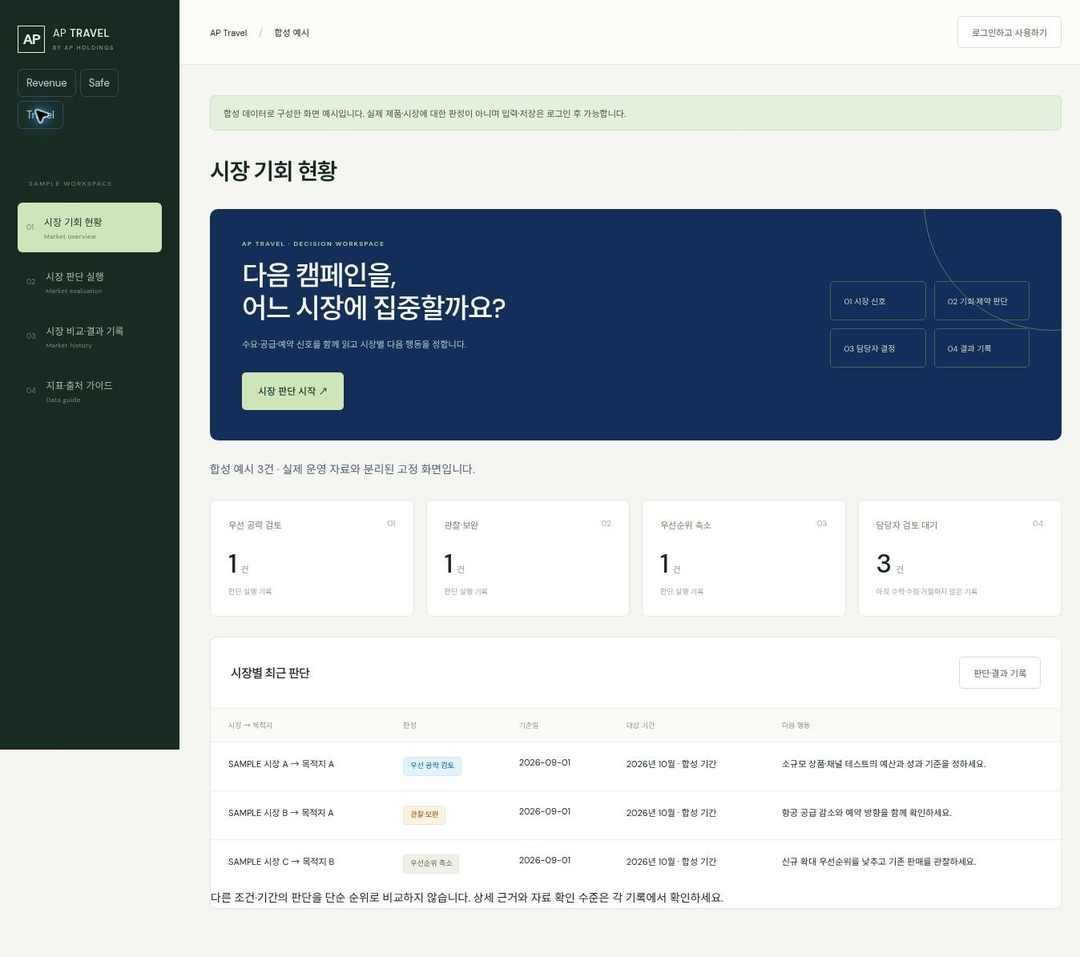
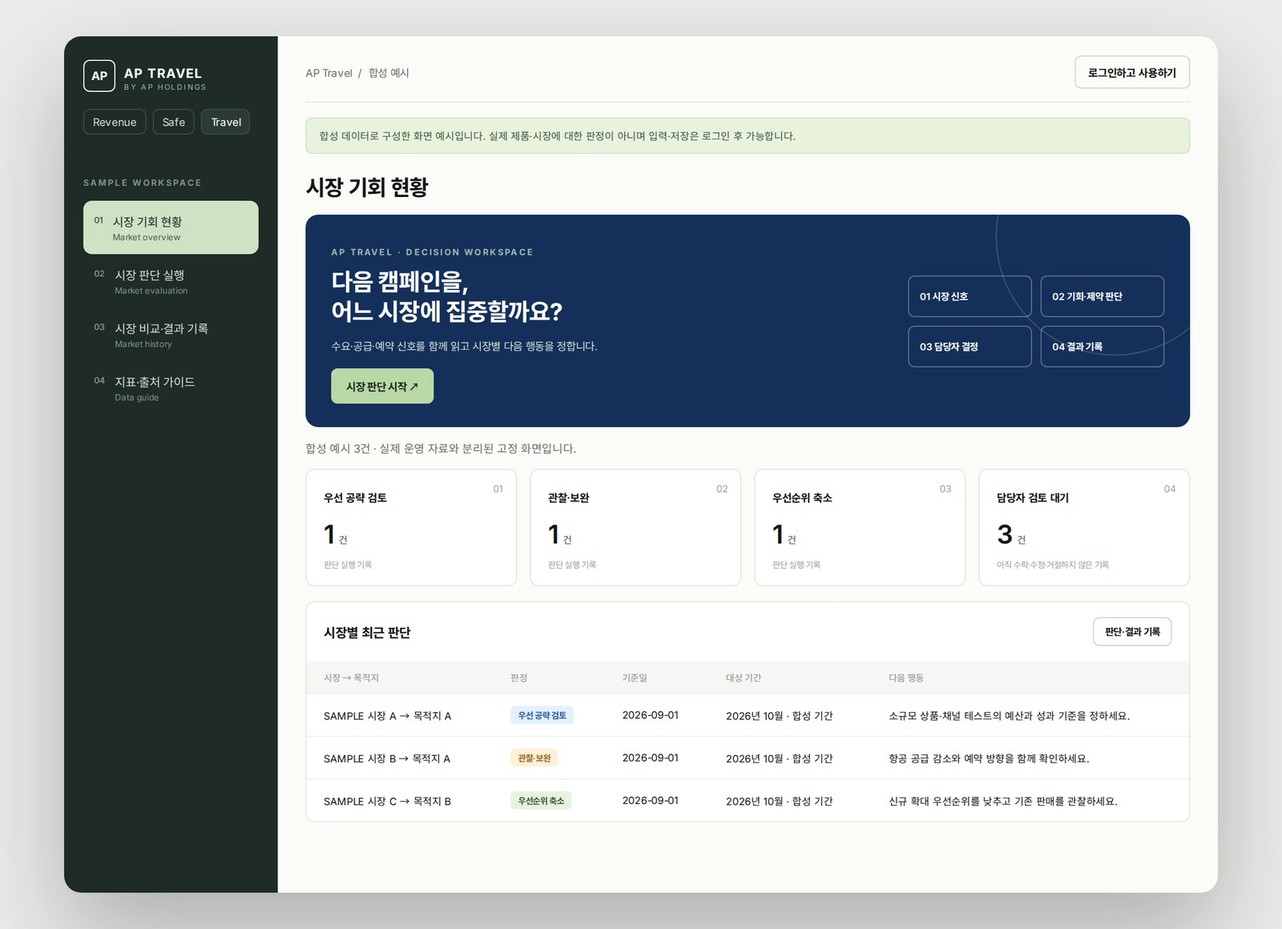
pilot sections: screenshots replaced with redrawn workspace graphics (desktop+mobile, KO/EN)
Claude-Session: https://claude.ai/code/session_01WsGPQczCo9oamQacoYURTj

diff --git a/en/products/safe/index.html b/en/products/safe/index.html
@@ -3,5 +3,5 @@ From ingredient scanner to AI-assisted safe commerce."><meta name="robots" conte
 From ingredient scanner to AI-assisted safe commerce."><meta property="og:url" content="https://www.apholdings.kr/en/products/safe/"><meta property="og:locale" content="en_US"><meta name="theme-color" content="#ffffff"><link rel="icon" href="/img/ap_mark.png"><link rel="stylesheet" href="/assets/v2/site.css?v=2.12"><script defer src="/assets/v2/site.js?v=2.4"></script><script type="application/ld+json">{"@context": "https://schema.org", "@type": "Organization", "name": "AP Holdings", "url": "https://www.apholdings.kr", "logo": "https://www.apholdings.kr/img/ap_mark.png", "description": "The avoid list saved on my phone filters what the AI shows, and only unflagged items get picked.\nFrom ingredient scanner to AI-assisted safe commerce.", "email": "cksals00@gmail.com", "sameAs": ["https://www.instagram.com/lia_park55/", "https://www.tiktok.com/@lia_park55"]}</script></head><body id="top"><a class="skip" href="#main">Skip to content</a><header class="site-header"><div class="wrap header-inner"><a class="brand" href="/en/" aria-label="AP Holdings home"><span class="brand-mark"><img src="/img/ap_mark.png" alt="" width="29" height="14"></span>AP HOLDINGS</a><nav class="desktop-nav" aria-label="Main"><a href="/en/#businesses">Services</a><a href="/en/#portfolio">Products</a><a href="/en/about/">About</a><a href="/en/ir/" class="ir-link">Investors</a><a href="/en/#contact">Contact</a></nav><details class="language"><summary aria-label="Language">EN</summary><ul><li><a href="/ko/products/safe/" lang="ko">한국어</a></li><li><a href="/en/products/safe/" lang="en" aria-current="page">English</a></li><li><a href="/vi/" lang="vi">Tiếng Việt<small>In preparation</small></a></li><li><a href="/ja/" lang="ja">日本語<small>In preparation</small></a></li><li><a href="/zh-cn/" lang="zh-cn">简体中文<small>In preparation</small></a></li><li><a href="/fr/" lang="fr">Français<small>In preparation</small></a></li></ul></details><details class="mobile-menu"><summary>Menu</summary><nav aria-label="Mobile"><a href="/en/#businesses">Services</a><a href="/en/#portfolio">Products</a><a href="/en/about/">About</a><a href="/en/ir/" class="ir-link">Investors</a><a href="/en/#contact">Contact</a></nav></details></div></header><main id="main"><section class="page-hero"><div class="wrap"><div class="breadcrumb"><a class="" href="/en/#portfolio">Products</a> / AP Safe</div><span class="status">In development</span><h1 class="product-name">AP Safe</h1><h2>Know what to avoid.</h2><p class="lead">The avoid list saved on my phone filters what the AI shows, and only unflagged items get picked.
 From ingredient scanner to AI-assisted safe commerce.</p></div></section><section class="section"><div class="wrap"><figure style="margin:0 0 45px"><div class="product-media" style="background:transparent;padding:0"><video autoplay muted loop playsinline preload="metadata" poster="/media/safelist_frame.jpg" src="/media/safelist.mp4" aria-label="AP Safe" style="width:100%;border-radius:24px"></video></div></figure><div class="product-body" hidden><div class="actions"><a class="button" href="https://apps.apple.com/kr/app/id6805684034" target="_blank" rel="noopener noreferrer">Safelist app</a></div><p>The existing Safelist app is evidence of building. Its currently available features are distinct from the broader AP Safe product concept.</p><div class="actions"><a class="button" href="/business/safelist-connect.html">Existing connector access</a></div></div></div></section><section class="section anchor" id="scene"><div class="wrap"><div class="section-intro"><div><span class="number">01 · One scene</span><h2>Siri, a week of snacks
 safe for my child.</h2></div><div class="intro-side"><p>Before anything is bought, any AI asks Safelist first. Only unflagged items reach the cart.</p></div></div><figure class="pic" style="margin:0 0 45px"><div class="product-media" style="background:transparent;padding:0"><picture><source media="(max-width:800px)" srcset="/media/gfx/safe_scene_m_en.jpg"><img src="/media/gfx/safe_scene_en.jpg" alt="One sentence → AI → Safelist verdict → only unflagged items reach the cart" width="1600" height="900" loading="lazy" style="width:100%;max-height:none;border-radius:24px"></picture></div></figure></div></section><section class="section soft anchor" id="why"><div class="wrap"><div class="section-intro"><div><span class="number">02 · Why Safelist</span><h2>AI is probability. Ingredients are fact.</h2></div><div class="intro-side"><p>AI can sound confident about what it doesn&#x27;t know. For a child&#x27;s food, that is the real danger. Safelist checks the source records and hands the AI facts only.</p><p class="note">Not a diagnosis · Public database · Final call stays with the parent</p></div></div><figure class="pic" style="margin:0 0 45px"><div class="product-media" style="background:transparent;padding:0"><picture><source media="(max-width:800px)" srcset="/media/gfx/safe_why_m_en.jpg"><img src="/media/gfx/safe_why_en.jpg" alt="AI alone guesses; with Safelist it answers from MFDS source records" width="1600" height="900" loading="lazy" style="width:100%;max-height:none;border-radius:24px"></picture></div></figure></div></section><section class="section anchor" id="data"><div class="wrap"><div class="section-intro"><div><span class="number">03 · Where the data lives</span><h2>My body&#x27;s data stays on my phone.</h2></div><div class="intro-side"><p>Child profiles, photos and logs never leave the device. The server receives only the label and the avoid list, then discards them.</p></div></div><figure class="pic" style="margin:0 0 45px"><div class="product-media" style="background:transparent;padding:0"><picture><source media="(max-width:800px)" srcset="/media/gfx/safe_privacy_m_en.jpg"><img src="/media/gfx/safe_privacy_en.jpg" alt="My data stays on my phone — the server sees only the label and the avoid list, then discards them" width="1600" height="900" loading="lazy" style="width:100%;max-height:none;border-radius:24px"></picture></div></figure></div></section><section class="section soft anchor" id="pilot"><div class="wrap"><div class="section-intro"><div><span class="number">04 · Web pilot</span><h2>Before you recommend,
-check the conflicts first.</h2></div><div class="intro-side"><p>Compares product composition against a user&#x27;s avoid and caution conditions, and applies the same rules to alternative candidates. A workspace tool for organizations — separate from the app and connector.</p><div class="actions"><a class="button primary" href="https://revenue.apholdings.kr/safe/">Open AP Safe</a><a class="button" href="https://revenue.apholdings.kr/safe/?demo=1">See the synthetic example</a><a class="button" href="https://revenue.apholdings.kr/safe/?demo=1">View example full size</a></div><p class="note">A review tool that compares entered conditions with composition data. Not a medical diagnosis or an absolute safety guarantee.</p></div></div><div class="tags"><span>Working pilot</span><span>Org accounts · Excel input</span><span>Reviewer records</span></div><figure class="pic" style="margin:0 0 45px"><div class="product-media" style="background:transparent;padding:0"><picture><source media="(max-width:800px)" srcset="/media/gfx/ap_safe_pilot.jpg"><img src="/media/gfx/ap_safe_pilot.jpg" alt="AP Safe synthetic example: a review overview showing exclude, needs review and no explicit conflict per product, with the reviewer&#x27;s next action" width="1600" height="900" loading="lazy" style="width:100%;max-height:none;border-radius:24px"></picture></div><figcaption class="note">Screen example built on synthetic data · not a judgment on real products or markets.</figcaption></figure><p>Separates conflict conditions that exclude a recommendation from information that needs a further check. Reviewers see the reasoning and record accept, edit or reject, plus observed outcomes.</p><ul class="flow"><li>Explicit match between avoid/caution conditions and composition</li><li>Held for review when information is missing</li><li>Same conditions applied to alternatives</li><li>Excel input · reasoning · reviewer records</li></ul></div></section><section class="section soft anchor" id="today"><div class="wrap"><div class="cta-block"><span class="number">05 · Today</span><h2>Today, on the App Store and in Claude.</h2><p>Free on the App Store. Scan without an account.
+check the conflicts first.</h2></div><div class="intro-side"><p>Compares product composition against a user&#x27;s avoid and caution conditions, and applies the same rules to alternative candidates. A workspace tool for organizations — separate from the app and connector.</p><div class="actions"><a class="button primary" href="https://revenue.apholdings.kr/safe/">Open AP Safe</a><a class="button" href="https://revenue.apholdings.kr/safe/?demo=1">See the synthetic example</a><a class="button" href="https://revenue.apholdings.kr/safe/?demo=1">View example full size</a></div><p class="note">A review tool that compares entered conditions with composition data. Not a medical diagnosis or an absolute safety guarantee.</p></div></div><div class="tags"><span>Working pilot</span><span>Org accounts · Excel input</span><span>Reviewer records</span></div><figure class="pic" style="margin:0 0 45px"><div class="product-media" style="background:transparent;padding:0"><picture><source media="(max-width:800px)" srcset="/media/gfx/ap_safe_pilot_m_en.jpg"><img src="/media/gfx/ap_safe_pilot_en.jpg" alt="AP Safe synthetic example (redrawn): a review overview showing exclude, needs review and no explicit conflict per product, with the reviewer&#x27;s next action" width="1600" height="900" loading="lazy" style="width:100%;max-height:none;border-radius:24px"></picture></div><figcaption class="note">Screen example on synthetic data (redrawn) · not a judgment on real products or markets.</figcaption></figure><p>Separates conflict conditions that exclude a recommendation from information that needs a further check. Reviewers see the reasoning and record accept, edit or reject, plus observed outcomes.</p><ul class="flow"><li>Explicit match between avoid/caution conditions and composition</li><li>Held for review when information is missing</li><li>Same conditions applied to alternatives</li><li>Excel input · reasoning · reviewer records</li></ul></div></section><section class="section soft anchor" id="today"><div class="wrap"><div class="cta-block"><span class="number">05 · Today</span><h2>Today, on the App Store and in Claude.</h2><p>Free on the App Store. Scan without an account.
 One line of address connects it to Claude.</p><div class="actions"><a class="button primary" href="https://apps.apple.com/kr/app/id6805684034">App Store</a><a class="button" href="/business/safelist-connect.html">Connect to Claude</a></div><p class="note">Android · ChatGPT · Gemini — coming later</p></div></div></section><section class="section anchor" id="exits"><div class="wrap"><div class="section-intro"><div><span class="number">06 · Where to buy</span><h2>Three exits.</h2></div><div class="intro-side"><p>One verdict engine. Three places to buy. Inside the AI · an online safe market · a physical store.</p><div class="actions"><a class="button" href="/ko/products/select/">AP SELECT — the store that chooses</a><a class="button" href="/ko/products/light/">Calories: AP Light</a></div></div></div><figure class="pic" style="margin:0 0 45px"><div class="product-media" style="background:transparent;padding:0"><picture><source media="(max-width:800px)" srcset="/media/gfx/safe_exits_m_en.jpg"><img src="/media/gfx/safe_exits_en.jpg" alt="Three exits — inside the AI · online safe market · physical store" width="1600" height="900" loading="lazy" style="width:100%;max-height:none;border-radius:24px"></picture></div></figure></div></section></main><footer class="site-footer"><div class="wrap"><div class="footer-contact" id="contact"><div><span class="eyebrow">CONTACT</span><h3>Build with AP.</h3><p>Let’s discuss product and technology, expert advisory, brand and commerce, global distribution, education and content, craft and artist collaboration, and pilots.</p></div><div><a class="contact-email" href="mailto:cksals00@gmail.com">cksals00@gmail.com</a><a class="button primary" href="mailto:cksals00@gmail.com?subject=%5BAP%20Holdings%5D%20Partnership%20enquiry">Contact AP Holdings</a></div></div><div class="footer-top"><a class="brand" href="/en/" aria-label="AP Holdings home"><span class="brand-mark"><img src="/img/ap_mark.png" alt="" width="29" height="14"></span>AP HOLDINGS</a><div class="footer-map"><div><b>AP Holdings</b><a class="" href="/en/about/">About</a><a class="" href="/en/ir/">IR / INVESTORS</a><a class="" href="/en/lab/">Founder’s Lab</a></div><div><b>Decision Intelligence</b><a class="" href="/en/products/safe/">AP Safe</a><a class="" href="/en/products/light/">AP Light</a><a class="" href="/en/products/revenue/">AP Revenue</a><a class="" href="/en/products/travel/">AP Travel</a></div><div><b>Commerce</b><a class="" href="/en/products/select/">AP SELECT</a><a class="" href="/en/products/commerce/">Global K-Commerce</a><a class="" href="/en/products/liaselect/">Lia Select</a><a class="" href="/en/products/craft/">AP K-Craft</a><a class="" href="/en/products/lia/">LIA</a></div><div><b>Play &amp; Learn</b><a class="" href="/en/products/rgrg/">RGRG</a><a class="" href="/en/products/cubs/">Hangeul Cubs</a><a class="" href="/en/products/lastwave/">LAST WAVE</a></div><div><b>Connectors</b><a class="" href="/business/safelist-connect.html">Safelist · Claude</a><a class="" href="/business/lightlist-connect.html">Lightlist · Claude</a></div></div></div><ul class="footer-policies" aria-label="Privacy policies"><li class="pol-label">App privacy policies</li><li><a class="" href="/safelist/privacy.html">Safelist</a></li><li><a class="" href="/hangeulcubs_privacy.html">Hangeul Cubs</a></li><li><a class="" href="/rgrg/privacy.html">RGRG</a></li><li><a class="" href="/irongrade/privacy.html">IRON GRADE</a></li><li><a class="" href="/theotherhours_privacy.html">The Other Hours</a></li><li><a class="" href="/kfan_privacy.html">K-Concert Trip</a></li><li><a class="" href="/privacy.html">나의 첫투자</a></li><li><a class="" href="/kscan/privacy.html">K-Scan</a></li><li><a class="" href="/goyo/privacy.html">Goyo</a></li></ul><div class="footer-bottom"><span>© 2026 AP Holdings.<em class="rights"> All rights reserved.</em></span><span>Built in Korea. Designed for the world.</span><a class="" href="#top">Back to top</a></div></div></footer></body></html>

diff --git a/en/products/travel/index.html b/en/products/travel/index.html
@@ -7,4 +7,4 @@ Only when they agree.</h2></div><div class="intro-side"><p>Air seats · exchange
 Who comes, and when, differs.</h2></div><div class="intro-side"><p>2.09 million visitors in July 2026, +20.8% year on year. China · Japan · Taiwan · United States · Hong Kong, in that order. Each country has its own peak season, spend and reason to come.</p><p class="note">Figures are refreshed after each monthly statistics release. Estimates are illustrative, not results.</p></div></div><figure class="pic" style="margin:0 0 45px"><div class="product-media" style="background:transparent;padding:0"><picture><source media="(max-width:800px)" srcset="/media/gfx/travel_market_m_en.jpg"><img src="/media/gfx/travel_market_en.jpg" alt="Annual arrivals 2019–2030 target · July 2026 arrivals by nationality" width="1600" height="900" loading="lazy" style="width:100%;max-height:none;border-radius:24px"></picture></div></figure></div></section><section class="section soft anchor" id="who"><div class="wrap"><div class="section-intro"><div><span class="number">04 · Who uses it</span><h2>Anyone waiting
 for guests.</h2></div><div class="intro-side"><p>Hotel and resort marketing, local governments and tourism boards, travel agencies and OTAs, concert and MICE organizers. It answers “which country do we advertise in now” every week.</p></div></div><figure class="pic" style="margin:0 0 45px"><div class="product-media" style="background:transparent;padding:0"><picture><source media="(max-width:800px)" srcset="/media/gfx/travel_report_m_en.jpg"><img src="/media/gfx/travel_report_en.jpg" alt="The weekly opportunity report hotels, tourism boards and agencies receive" width="1600" height="900" loading="lazy" style="width:100%;max-height:none;border-radius:24px"></picture></div></figure></div></section><section class="section anchor" id="apply"><div class="wrap"><div class="section-intro"><div><span class="number">05 · How it connects</span><h2>The same engine as AP Revenue.
 Only the data differs.</h2></div><div class="intro-side"><p>Signals → priority → human decision → outcome on record. Public data (Korea Tourism Data Lab · TourAPI) and partner data feed a weekly “this week&#x27;s opportunities” list and campaign briefs.</p></div></div><ul class="flow"><li>Public · partner data</li><li>Six signals normalized</li><li>Opportunity list (origin → city · guest · week)</li><li>Manager decides</li><li>Campaign</li><li>Verified by visits and bookings</li></ul><div class="tags"><span>Weekly opportunity report</span><span>Campaign brief</span><span>AP Revenue booking data link</span><span>K-Concert Trip — app for overseas K-pop fans visiting Korea, first measurement channel</span></div></div></section><section class="section soft anchor" id="pilot"><div class="wrap"><div class="section-intro"><div><span class="number">06 · Web pilot</span><h2>Which market should
-the next campaign focus on?</h2></div><div class="intro-side"><p>Reviews market signals together — travel demand, air supply, bookings — and sorts which markets to pursue and where the evidence still needs work.</p><div class="actions"><a class="button primary" href="https://revenue.apholdings.kr/travel/">Open AP Travel</a><a class="button" href="https://revenue.apholdings.kr/travel/?demo=1">See the synthetic example</a><a class="button" href="https://revenue.apholdings.kr/travel/?demo=1">View example full size</a></div><p class="note">A rule-based market review tool. Scores are not revenue forecasts or performance guarantees.</p></div></div><div class="tags"><span>Working pilot</span><span>Org accounts · Excel input</span><span>Per-market decision history</span></div><figure class="pic" style="margin:0 0 45px"><div class="product-media" style="background:transparent;padding:0"><picture><source media="(max-width:800px)" srcset="/media/gfx/ap_travel_pilot.jpg"><img src="/media/gfx/ap_travel_pilot.jpg" alt="AP Travel synthetic example: a market overview showing pursue, watch and de-prioritize per market, with next actions" width="1600" height="900" loading="lazy" style="width:100%;max-height:none;border-radius:24px"></picture></div><figcaption class="note">Screen example built on synthetic data · not a judgment on real products or markets.</figcaption></figure><p>Enter data by origin market, destination and travel period and it sorts them into pursue, watch and de-prioritize. Reviewers see the reasoning and next action, and the team&#x27;s decisions and observed outcomes accumulate.</p><ul class="flow"><li>Eight market signals with source and as-of date</li><li>Conflicts between supply constraints, demand and booking direction</li><li>Excel input and per-market decision records</li><li>Before/after comparison when data is refreshed for the same market and period</li></ul></div></section><section class="section anchor" id="today"><div class="wrap"><div class="cta-block"><span class="number">07 · Today</span><h2>Today, in a web pilot.</h2><p>Sign in with an organization account, enter market data and record decisions. The same engine runs on hotel booking data in AP Revenue.</p><div class="actions"><a class="button primary" href="https://revenue.apholdings.kr/travel/">Open AP Travel</a><a class="button" href="mailto:cksals00@gmail.com?subject=%5BAP%20Holdings%5D%20AP%20Travel%20pilot%20inquiry">Pilot inquiry</a><a class="button" href="/en/products/revenue/">See AP Revenue</a></div><p class="note">Automatic market-data collection · standard metric definitions · validation against real outcomes — next steps</p></div></div></section></main><footer class="site-footer"><div class="wrap"><div class="footer-contact" id="contact"><div><span class="eyebrow">CONTACT</span><h3>Build with AP.</h3><p>Let’s discuss product and technology, expert advisory, brand and commerce, global distribution, education and content, craft and artist collaboration, and pilots.</p></div><div><a class="contact-email" href="mailto:cksals00@gmail.com">cksals00@gmail.com</a><a class="button primary" href="mailto:cksals00@gmail.com?subject=%5BAP%20Holdings%5D%20Partnership%20enquiry">Contact AP Holdings</a></div></div><div class="footer-top"><a class="brand" href="/en/" aria-label="AP Holdings home"><span class="brand-mark"><img src="/img/ap_mark.png" alt="" width="29" height="14"></span>AP HOLDINGS</a><div class="footer-map"><div><b>AP Holdings</b><a class="" href="/en/about/">About</a><a class="" href="/en/ir/">IR / INVESTORS</a><a class="" href="/en/lab/">Founder’s Lab</a></div><div><b>Decision Intelligence</b><a class="" href="/en/products/safe/">AP Safe</a><a class="" href="/en/products/light/">AP Light</a><a class="" href="/en/products/revenue/">AP Revenue</a><a class="" href="/en/products/travel/">AP Travel</a></div><div><b>Commerce</b><a class="" href="/en/products/select/">AP SELECT</a><a class="" href="/en/products/commerce/">Global K-Commerce</a><a class="" href="/en/products/liaselect/">Lia Select</a><a class="" href="/en/products/craft/">AP K-Craft</a><a class="" href="/en/products/lia/">LIA</a></div><div><b>Play &amp; Learn</b><a class="" href="/en/products/rgrg/">RGRG</a><a class="" href="/en/products/cubs/">Hangeul Cubs</a><a class="" href="/en/products/lastwave/">LAST WAVE</a></div><div><b>Connectors</b><a class="" href="/business/safelist-connect.html">Safelist · Claude</a><a class="" href="/business/lightlist-connect.html">Lightlist · Claude</a></div></div></div><ul class="footer-policies" aria-label="Privacy policies"><li class="pol-label">App privacy policies</li><li><a class="" href="/safelist/privacy.html">Safelist</a></li><li><a class="" href="/hangeulcubs_privacy.html">Hangeul Cubs</a></li><li><a class="" href="/rgrg/privacy.html">RGRG</a></li><li><a class="" href="/irongrade/privacy.html">IRON GRADE</a></li><li><a class="" href="/theotherhours_privacy.html">The Other Hours</a></li><li><a class="" href="/kfan_privacy.html">K-Concert Trip</a></li><li><a class="" href="/privacy.html">나의 첫투자</a></li><li><a class="" href="/kscan/privacy.html">K-Scan</a></li><li><a class="" href="/goyo/privacy.html">Goyo</a></li></ul><div class="footer-bottom"><span>© 2026 AP Holdings.<em class="rights"> All rights reserved.</em></span><span>Built in Korea. Designed for the world.</span><a class="" href="#top">Back to top</a></div></div></footer></body></html>
+the next campaign focus on?</h2></div><div class="intro-side"><p>Reviews market signals together — travel demand, air supply, bookings — and sorts which markets to pursue and where the evidence still needs work.</p><div class="actions"><a class="button primary" href="https://revenue.apholdings.kr/travel/">Open AP Travel</a><a class="button" href="https://revenue.apholdings.kr/travel/?demo=1">See the synthetic example</a><a class="button" href="https://revenue.apholdings.kr/travel/?demo=1">View example full size</a></div><p class="note">A rule-based market review tool. Scores are not revenue forecasts or performance guarantees.</p></div></div><div class="tags"><span>Working pilot</span><span>Org accounts · Excel input</span><span>Per-market decision history</span></div><figure class="pic" style="margin:0 0 45px"><div class="product-media" style="background:transparent;padding:0"><picture><source media="(max-width:800px)" srcset="/media/gfx/ap_travel_pilot_m_en.jpg"><img src="/media/gfx/ap_travel_pilot_en.jpg" alt="AP Travel synthetic example (redrawn): a market overview showing pursue, watch and de-prioritize per market, with next actions" width="1600" height="900" loading="lazy" style="width:100%;max-height:none;border-radius:24px"></picture></div><figcaption class="note">Screen example on synthetic data (redrawn) · not a judgment on real products or markets.</figcaption></figure><p>Enter data by origin market, destination and travel period and it sorts them into pursue, watch and de-prioritize. Reviewers see the reasoning and next action, and the team&#x27;s decisions and observed outcomes accumulate.</p><ul class="flow"><li>Eight market signals with source and as-of date</li><li>Conflicts between supply constraints, demand and booking direction</li><li>Excel input and per-market decision records</li><li>Before/after comparison when data is refreshed for the same market and period</li></ul></div></section><section class="section anchor" id="today"><div class="wrap"><div class="cta-block"><span class="number">07 · Today</span><h2>Today, in a web pilot.</h2><p>Sign in with an organization account, enter market data and record decisions. The same engine runs on hotel booking data in AP Revenue.</p><div class="actions"><a class="button primary" href="https://revenue.apholdings.kr/travel/">Open AP Travel</a><a class="button" href="mailto:cksals00@gmail.com?subject=%5BAP%20Holdings%5D%20AP%20Travel%20pilot%20inquiry">Pilot inquiry</a><a class="button" href="/en/products/revenue/">See AP Revenue</a></div><p class="note">Automatic market-data collection · standard metric definitions · validation against real outcomes — next steps</p></div></div></section></main><footer class="site-footer"><div class="wrap"><div class="footer-contact" id="contact"><div><span class="eyebrow">CONTACT</span><h3>Build with AP.</h3><p>Let’s discuss product and technology, expert advisory, brand and commerce, global distribution, education and content, craft and artist collaboration, and pilots.</p></div><div><a class="contact-email" href="mailto:cksals00@gmail.com">cksals00@gmail.com</a><a class="button primary" href="mailto:cksals00@gmail.com?subject=%5BAP%20Holdings%5D%20Partnership%20enquiry">Contact AP Holdings</a></div></div><div class="footer-top"><a class="brand" href="/en/" aria-label="AP Holdings home"><span class="brand-mark"><img src="/img/ap_mark.png" alt="" width="29" height="14"></span>AP HOLDINGS</a><div class="footer-map"><div><b>AP Holdings</b><a class="" href="/en/about/">About</a><a class="" href="/en/ir/">IR / INVESTORS</a><a class="" href="/en/lab/">Founder’s Lab</a></div><div><b>Decision Intelligence</b><a class="" href="/en/products/safe/">AP Safe</a><a class="" href="/en/products/light/">AP Light</a><a class="" href="/en/products/revenue/">AP Revenue</a><a class="" href="/en/products/travel/">AP Travel</a></div><div><b>Commerce</b><a class="" href="/en/products/select/">AP SELECT</a><a class="" href="/en/products/commerce/">Global K-Commerce</a><a class="" href="/en/products/liaselect/">Lia Select</a><a class="" href="/en/products/craft/">AP K-Craft</a><a class="" href="/en/products/lia/">LIA</a></div><div><b>Play &amp; Learn</b><a class="" href="/en/products/rgrg/">RGRG</a><a class="" href="/en/products/cubs/">Hangeul Cubs</a><a class="" href="/en/products/lastwave/">LAST WAVE</a></div><div><b>Connectors</b><a class="" href="/business/safelist-connect.html">Safelist · Claude</a><a class="" href="/business/lightlist-connect.html">Lightlist · Claude</a></div></div></div><ul class="footer-policies" aria-label="Privacy policies"><li class="pol-label">App privacy policies</li><li><a class="" href="/safelist/privacy.html">Safelist</a></li><li><a class="" href="/hangeulcubs_privacy.html">Hangeul Cubs</a></li><li><a class="" href="/rgrg/privacy.html">RGRG</a></li><li><a class="" href="/irongrade/privacy.html">IRON GRADE</a></li><li><a class="" href="/theotherhours_privacy.html">The Other Hours</a></li><li><a class="" href="/kfan_privacy.html">K-Concert Trip</a></li><li><a class="" href="/privacy.html">나의 첫투자</a></li><li><a class="" href="/kscan/privacy.html">K-Scan</a></li><li><a class="" href="/goyo/privacy.html">Goyo</a></li></ul><div class="footer-bottom"><span>© 2026 AP Holdings.<em class="rights"> All rights reserved.</em></span><span>Built in Korea. Designed for the world.</span><a class="" href="#top">Back to top</a></div></div></footer></body></html>

diff --git a/ko/products/safe/index.html b/ko/products/safe/index.html
@@ -13,6 +13,6 @@ AI에게 사실만 건넨다.</p><p class="note">진단이 아니다 · 공개 D
 응답 후 버린다.</p></div></div><figure class="pic" style="margin:0 0 45px"><div class="product-media" style="background:transparent;padding:0"><picture><source media="(max-width:800px)" srcset="/media/gfx/safe_privacy_m.jpg"><img src="/media/gfx/safe_privacy.jpg" alt="내 몸 데이터는 내 폰에 — 서버는 성분표와 피할 성분만 받고 버린다" width="1600" height="900" loading="lazy" style="width:100%;max-height:none;border-radius:24px"></picture></div></figure></div></section><section class="section soft anchor" id="pilot"><div class="wrap"><div class="section-intro"><div><span class="number">04 · 웹 파일럿</span><h2>추천 전에,
 충돌 조건부터 확인하세요.</h2></div><div class="intro-side"><p>제품 구성과 사용자 회피·주의 조건을 비교하고,
 대체 후보에도 같은 기준을 적용합니다.
-조직용 웹 도구 — 앱·커넥터와는 제공 범위가 다릅니다.</p><div class="actions"><a class="button primary" href="https://revenue.apholdings.kr/safe/">AP Safe 시작하기</a><a class="button" href="https://revenue.apholdings.kr/safe/?demo=1">합성 예시 보기</a><a class="button" href="https://revenue.apholdings.kr/safe/?demo=1">예시 화면 크게 보기</a></div><p class="note">입력된 조건과 구성정보를 비교하는 검토 도구입니다. 의료진단·절대적 안전보증이 아닙니다.</p></div></div><div class="tags"><span>작동 파일럿</span><span>조직 계정 · 엑셀 입력</span><span>담당자 검토 기록</span></div><figure class="pic" style="margin:0 0 45px"><div class="product-media" style="background:transparent;padding:0"><picture><source media="(max-width:800px)" srcset="/media/gfx/ap_safe_pilot.jpg"><img src="/media/gfx/ap_safe_pilot.jpg" alt="AP Safe 합성 예시: 제품별 추천 제외·추가 검토·명시적 충돌 없음과 담당자의 다음 행동을 보여주는 검토 현황 화면" width="1600" height="900" loading="lazy" style="width:100%;max-height:none;border-radius:24px"></picture></div><figcaption class="note">합성 데이터 기반 화면 예시 · 실제 제품·시장 판정이 아닙니다.</figcaption></figure><p>추천에서 제외할 충돌 조건과 추가 확인이 필요한 정보를 구분합니다. 담당자는 판단 근거를 확인하고 수락·수정·거절 및 관측 결과를 기록할 수 있습니다.</p><ul class="flow"><li>회피·주의 조건과 제품 구성의 명시적 일치 확인</li><li>정보 부족 시 추가 검토로 보류</li><li>대체 후보에 동일 조건 적용</li><li>엑셀 입력 · 판단 근거 · 담당자 검토 기록</li></ul></div></section><section class="section soft anchor" id="today"><div class="wrap"><div class="cta-block"><span class="number">05 · 지금</span><h2>오늘, App Store와 클로드에서.</h2><p>App Store에서 무료로. 계정 없이 바로 스캔.
+조직용 웹 도구 — 앱·커넥터와는 제공 범위가 다릅니다.</p><div class="actions"><a class="button primary" href="https://revenue.apholdings.kr/safe/">AP Safe 시작하기</a><a class="button" href="https://revenue.apholdings.kr/safe/?demo=1">합성 예시 보기</a><a class="button" href="https://revenue.apholdings.kr/safe/?demo=1">예시 화면 크게 보기</a></div><p class="note">입력된 조건과 구성정보를 비교하는 검토 도구입니다. 의료진단·절대적 안전보증이 아닙니다.</p></div></div><div class="tags"><span>작동 파일럿</span><span>조직 계정 · 엑셀 입력</span><span>담당자 검토 기록</span></div><figure class="pic" style="margin:0 0 45px"><div class="product-media" style="background:transparent;padding:0"><picture><source media="(max-width:800px)" srcset="/media/gfx/ap_safe_pilot_m.jpg"><img src="/media/gfx/ap_safe_pilot.jpg" alt="AP Safe 합성 예시 (화면 재구성): 제품별 추천 제외·추가 검토·명시적 충돌 없음과 담당자의 다음 행동을 보여주는 검토 현황 화면" width="1600" height="900" loading="lazy" style="width:100%;max-height:none;border-radius:24px"></picture></div><figcaption class="note">합성 데이터 기반 화면 예시(재구성) · 실제 제품·시장 판정이 아닙니다.</figcaption></figure><p>추천에서 제외할 충돌 조건과 추가 확인이 필요한 정보를 구분합니다. 담당자는 판단 근거를 확인하고 수락·수정·거절 및 관측 결과를 기록할 수 있습니다.</p><ul class="flow"><li>회피·주의 조건과 제품 구성의 명시적 일치 확인</li><li>정보 부족 시 추가 검토로 보류</li><li>대체 후보에 동일 조건 적용</li><li>엑셀 입력 · 판단 근거 · 담당자 검토 기록</li></ul></div></section><section class="section soft anchor" id="today"><div class="wrap"><div class="cta-block"><span class="number">05 · 지금</span><h2>오늘, App Store와 클로드에서.</h2><p>App Store에서 무료로. 계정 없이 바로 스캔.
 클로드에는 주소 한 줄이면 붙는다.</p><div class="actions"><a class="button primary" href="https://apps.apple.com/kr/app/id6805684034">App Store</a><a class="button" href="/business/safelist-connect.html">클로드에 붙이기</a></div><p class="note">Android · ChatGPT · Gemini — 추후 출시 예정</p></div></div></section><section class="section anchor" id="exits"><div class="wrap"><div class="section-intro"><div><span class="number">06 · 어디서 사나</span><h2>세 개의 출구.</h2></div><div class="intro-side"><p>판정 엔진은 하나. 사는 자리는 셋.
 AI 안에서 · 온라인 안심 마켓 · 오프라인 매장.</p><div class="actions"><a class="button" href="/ko/products/select/">AP SELECT — 고르는 매장</a><a class="button" href="/ko/products/light/">열량은 AP Light</a></div></div></div><figure class="pic" style="margin:0 0 45px"><div class="product-media" style="background:transparent;padding:0"><picture><source media="(max-width:800px)" srcset="/media/gfx/safe_exits_m.jpg"><img src="/media/gfx/safe_exits.jpg" alt="세 개의 출구 — AI 안에서 · 온라인 안심 마켓 · 오프라인 매장" width="1600" height="900" loading="lazy" style="width:100%;max-height:none;border-radius:24px"></picture></div></figure></div></section></main><footer class="site-footer"><div class="wrap"><div class="footer-contact" id="contact"><div><span class="eyebrow">CONTACT</span><h3>Build with AP.</h3><p>제품·기술 · 전문가 자문 · 브랜드·커머스 · 글로벌 유통 · 교육·콘텐츠 · 공예·작가 · 파일럿 협력</p></div><div><a class="contact-email" href="mailto:cksals00@gmail.com">cksals00@gmail.com</a><a class="button primary" href="mailto:cksals00@gmail.com?subject=%5BAP%20Holdings%5D%20Partnership%20enquiry">협력 문의</a></div></div><div class="footer-top"><a class="brand" href="/ko/" aria-label="AP Holdings home"><span class="brand-mark"><img src="/img/ap_mark.png" alt="" width="29" height="14"></span>AP HOLDINGS</a><div class="footer-map"><div><b>AP Holdings</b><a class="" href="/ko/about/">회사 소개</a><a class="" href="/ko/ir/">IR / INVESTORS</a><a class="" href="/ko/lab/">Founder’s Lab</a></div><div><b>Decision Intelligence</b><a class="" href="/ko/products/safe/">AP Safe</a><a class="" href="/ko/products/light/">AP Light</a><a class="" href="/ko/products/revenue/">AP Revenue</a><a class="" href="/ko/products/travel/">AP Travel</a></div><div><b>Commerce</b><a class="" href="/ko/products/select/">AP SELECT</a><a class="" href="/ko/products/commerce/">Global K-Commerce</a><a class="" href="/ko/products/liaselect/">Lia Select</a><a class="" href="/ko/products/craft/">K-Craft</a><a class="" href="/ko/products/lia/">LIA</a></div><div><b>Play &amp; Learn</b><a class="" href="/ko/products/rgrg/">RGRG</a><a class="" href="/ko/products/cubs/">Hangeul Cubs</a><a class="" href="/ko/products/lastwave/">LAST WAVE</a></div><div><b>커넥터</b><a class="" href="/business/safelist-connect.html">세이프리스트 · 클로드</a><a class="" href="/business/lightlist-connect.html">라이트리스트 · 클로드</a></div></div></div><ul class="footer-policies" aria-label="개인정보 처리방침"><li class="pol-label">앱 개인정보 처리방침</li><li><a class="" href="/safelist/privacy.html">Safelist</a></li><li><a class="" href="/hangeulcubs_privacy.html">Hangeul Cubs</a></li><li><a class="" href="/rgrg/privacy.html">RGRG</a></li><li><a class="" href="/irongrade/privacy.html">IRON GRADE</a></li><li><a class="" href="/theotherhours_privacy.html">The Other Hours</a></li><li><a class="" href="/kfan_privacy.html">K-Concert Trip</a></li><li><a class="" href="/privacy.html">나의 첫투자</a></li><li><a class="" href="/kscan/privacy.html">K-Scan</a></li><li><a class="" href="/goyo/privacy.html">Goyo</a></li></ul><div class="footer-bottom"><span>© 2026 AP Holdings.<em class="rights"> All rights reserved.</em></span><span>Built in Korea. Designed for the world.</span><a class="" href="#top">맨 위로</a></div></div></footer></body></html>

diff --git a/ko/products/travel/index.html b/ko/products/travel/index.html
@@ -22,5 +22,5 @@
 매주 「이번 주 기회」 목록과
 캠페인 브리프를 낸다.</p></div></div><ul class="flow"><li>공공 · 파트너 데이터</li><li>신호 6종 정규화</li><li>기회 목록 (출발국 → 도시 · 손님 · 주)</li><li>담당자 결정</li><li>캠페인</li><li>방문 · 예약 실적으로 검증</li></ul><div class="tags"><span>주간 기회 리포트</span><span>캠페인 브리프</span><span>AP Revenue 예약 데이터 연동</span><span>K-Concert Trip — 해외 K팝 팬 방한 앱, 첫 실측 채널</span></div></div></section><section class="section soft anchor" id="pilot"><div class="wrap"><div class="section-intro"><div><span class="number">06 · 웹 파일럿</span><h2>다음 캠페인을,
 어느 시장에 집중할까요?</h2></div><div class="intro-side"><p>여행 수요·항공 공급·예약 등 시장 신호를 함께 검토해
-공략할 시장과 보완할 근거를 정리합니다.</p><div class="actions"><a class="button primary" href="https://revenue.apholdings.kr/travel/">AP Travel 시작하기</a><a class="button" href="https://revenue.apholdings.kr/travel/?demo=1">합성 예시 보기</a><a class="button" href="https://revenue.apholdings.kr/travel/?demo=1">예시 화면 크게 보기</a></div><p class="note">규칙 기반의 시장 검토 도구입니다. 점수는 매출 예측이나 성과 보장이 아닙니다.</p></div></div><div class="tags"><span>작동 파일럿</span><span>조직 계정 · 엑셀 입력</span><span>시장별 판단 이력</span></div><figure class="pic" style="margin:0 0 45px"><div class="product-media" style="background:transparent;padding:0"><picture><source media="(max-width:800px)" srcset="/media/gfx/ap_travel_pilot.jpg"><img src="/media/gfx/ap_travel_pilot.jpg" alt="AP Travel 합성 예시: 시장별 우선 공략 검토·관찰·우선순위 축소와 다음 행동을 보여주는 시장 기회 화면" width="1600" height="900" loading="lazy" style="width:100%;max-height:none;border-radius:24px"></picture></div><figcaption class="note">합성 데이터 기반 화면 예시 · 실제 제품·시장 판정이 아닙니다.</figcaption></figure><p>출발 시장·목적지·여행 기간별 자료를 입력하면 우선 공략 검토, 관찰·보완, 우선순위 축소로 분류합니다. 판단 근거와 다음 행동을 확인하고 담당자의 결정과 관측 결과를 축적합니다.</p><ul class="flow"><li>시장 신호 8개와 출처·기준일 확인</li><li>공급 제약·수요와 예약 방향의 상충 검토</li><li>엑셀 입력과 시장별 판단 기록</li><li>같은 시장·여행 기간의 자료 갱신 전후 비교</li></ul></div></section><section class="section anchor" id="today"><div class="wrap"><div class="cta-block"><span class="number">07 · 지금</span><h2>오늘, 웹 파일럿에서.</h2><p>조직 계정으로 로그인해 시장 자료를 넣고 판단을 기록한다.
+공략할 시장과 보완할 근거를 정리합니다.</p><div class="actions"><a class="button primary" href="https://revenue.apholdings.kr/travel/">AP Travel 시작하기</a><a class="button" href="https://revenue.apholdings.kr/travel/?demo=1">합성 예시 보기</a><a class="button" href="https://revenue.apholdings.kr/travel/?demo=1">예시 화면 크게 보기</a></div><p class="note">규칙 기반의 시장 검토 도구입니다. 점수는 매출 예측이나 성과 보장이 아닙니다.</p></div></div><div class="tags"><span>작동 파일럿</span><span>조직 계정 · 엑셀 입력</span><span>시장별 판단 이력</span></div><figure class="pic" style="margin:0 0 45px"><div class="product-media" style="background:transparent;padding:0"><picture><source media="(max-width:800px)" srcset="/media/gfx/ap_travel_pilot_m.jpg"><img src="/media/gfx/ap_travel_pilot.jpg" alt="AP Travel 합성 예시 (화면 재구성): 시장별 우선 공략 검토·관찰·우선순위 축소와 다음 행동을 보여주는 시장 기회 화면" width="1600" height="900" loading="lazy" style="width:100%;max-height:none;border-radius:24px"></picture></div><figcaption class="note">합성 데이터 기반 화면 예시(재구성) · 실제 제품·시장 판정이 아닙니다.</figcaption></figure><p>출발 시장·목적지·여행 기간별 자료를 입력하면 우선 공략 검토, 관찰·보완, 우선순위 축소로 분류합니다. 판단 근거와 다음 행동을 확인하고 담당자의 결정과 관측 결과를 축적합니다.</p><ul class="flow"><li>시장 신호 8개와 출처·기준일 확인</li><li>공급 제약·수요와 예약 방향의 상충 검토</li><li>엑셀 입력과 시장별 판단 기록</li><li>같은 시장·여행 기간의 자료 갱신 전후 비교</li></ul></div></section><section class="section anchor" id="today"><div class="wrap"><div class="cta-block"><span class="number">07 · 지금</span><h2>오늘, 웹 파일럿에서.</h2><p>조직 계정으로 로그인해 시장 자료를 넣고 판단을 기록한다.
 같은 엔진이 호텔 예약 데이터로는 AP Revenue에서 작동 중.</p><div class="actions"><a class="button primary" href="https://revenue.apholdings.kr/travel/">AP Travel 시작하기</a><a class="button" href="mailto:cksals00@gmail.com?subject=%5BAP%20Holdings%5D%20AP%20Travel%20%ED%8C%8C%EC%9D%BC%EB%9F%BF%20%EB%AC%B8%EC%9D%98">파일럿 문의</a><a class="button" href="/ko/products/revenue/">AP Revenue 보기</a></div><p class="note">외부 시장 데이터 자동 수집 · 지표 정의 표준화 · 실제 성과 검증 — 후속 작업</p></div></div></section></main><footer class="site-footer"><div class="wrap"><div class="footer-contact" id="contact"><div><span class="eyebrow">CONTACT</span><h3>Build with AP.</h3><p>제품·기술 · 전문가 자문 · 브랜드·커머스 · 글로벌 유통 · 교육·콘텐츠 · 공예·작가 · 파일럿 협력</p></div><div><a class="contact-email" href="mailto:cksals00@gmail.com">cksals00@gmail.com</a><a class="button primary" href="mailto:cksals00@gmail.com?subject=%5BAP%20Holdings%5D%20Partnership%20enquiry">협력 문의</a></div></div><div class="footer-top"><a class="brand" href="/ko/" aria-label="AP Holdings home"><span class="brand-mark"><img src="/img/ap_mark.png" alt="" width="29" height="14"></span>AP HOLDINGS</a><div class="footer-map"><div><b>AP Holdings</b><a class="" href="/ko/about/">회사 소개</a><a class="" href="/ko/ir/">IR / INVESTORS</a><a class="" href="/ko/lab/">Founder’s Lab</a></div><div><b>Decision Intelligence</b><a class="" href="/ko/products/safe/">AP Safe</a><a class="" href="/ko/products/light/">AP Light</a><a class="" href="/ko/products/revenue/">AP Revenue</a><a class="" href="/ko/products/travel/">AP Travel</a></div><div><b>Commerce</b><a class="" href="/ko/products/select/">AP SELECT</a><a class="" href="/ko/products/commerce/">Global K-Commerce</a><a class="" href="/ko/products/liaselect/">Lia Select</a><a class="" href="/ko/products/craft/">K-Craft</a><a class="" href="/ko/products/lia/">LIA</a></div><div><b>Play &amp; Learn</b><a class="" href="/ko/products/rgrg/">RGRG</a><a class="" href="/ko/products/cubs/">Hangeul Cubs</a><a class="" href="/ko/products/lastwave/">LAST WAVE</a></div><div><b>커넥터</b><a class="" href="/business/safelist-connect.html">세이프리스트 · 클로드</a><a class="" href="/business/lightlist-connect.html">라이트리스트 · 클로드</a></div></div></div><ul class="footer-policies" aria-label="개인정보 처리방침"><li class="pol-label">앱 개인정보 처리방침</li><li><a class="" href="/safelist/privacy.html">Safelist</a></li><li><a class="" href="/hangeulcubs_privacy.html">Hangeul Cubs</a></li><li><a class="" href="/rgrg/privacy.html">RGRG</a></li><li><a class="" href="/irongrade/privacy.html">IRON GRADE</a></li><li><a class="" href="/theotherhours_privacy.html">The Other Hours</a></li><li><a class="" href="/kfan_privacy.html">K-Concert Trip</a></li><li><a class="" href="/privacy.html">나의 첫투자</a></li><li><a class="" href="/kscan/privacy.html">K-Scan</a></li><li><a class="" href="/goyo/privacy.html">Goyo</a></li></ul><div class="footer-bottom"><span>© 2026 AP Holdings.<em class="rights"> All rights reserved.</em></span><span>Built in Korea. Designed for the world.</span><a class="" href="#top">맨 위로</a></div></div></footer></body></html>

diff --git a/scripts/build_site.py b/scripts/build_site.py
@@ -139,7 +139,7 @@ def mobile_src(src):
  import os
  if not src.endswith('.jpg'):return None
  base=src[:-4]
- if base.split('/')[-1] in ('lw_collab','yt_ep1','ap_safe_pilot','ap_travel_pilot'):return src  # 실제 화면 캡처는 자르지 않는다 (개발자 가이드)  # photo/thumbnail: legible as-is, no swipe
+ if base.split('/')[-1] in ('lw_collab','yt_ep1'):return src  # photo/thumbnail: legible as-is, no swipe
  if base.endswith('_en'):
   cand=base[:-3]+'_m_en.jpg'
  else:
